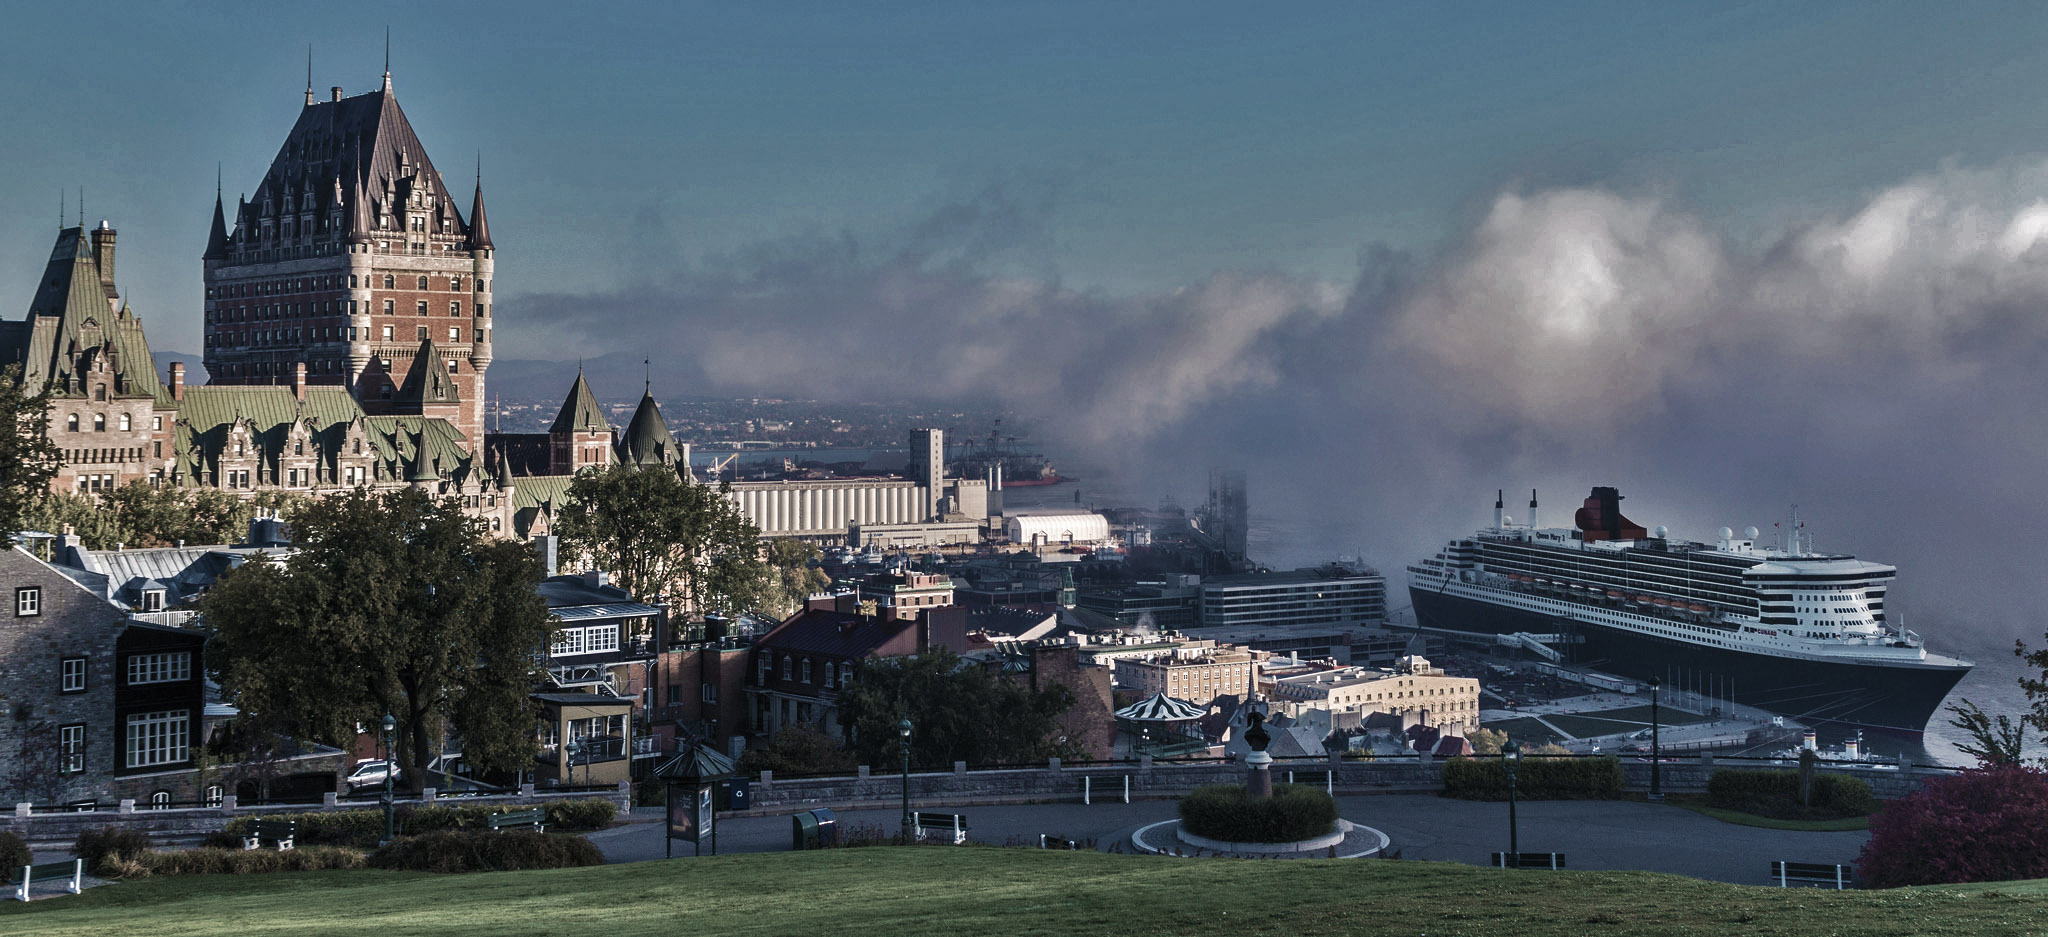
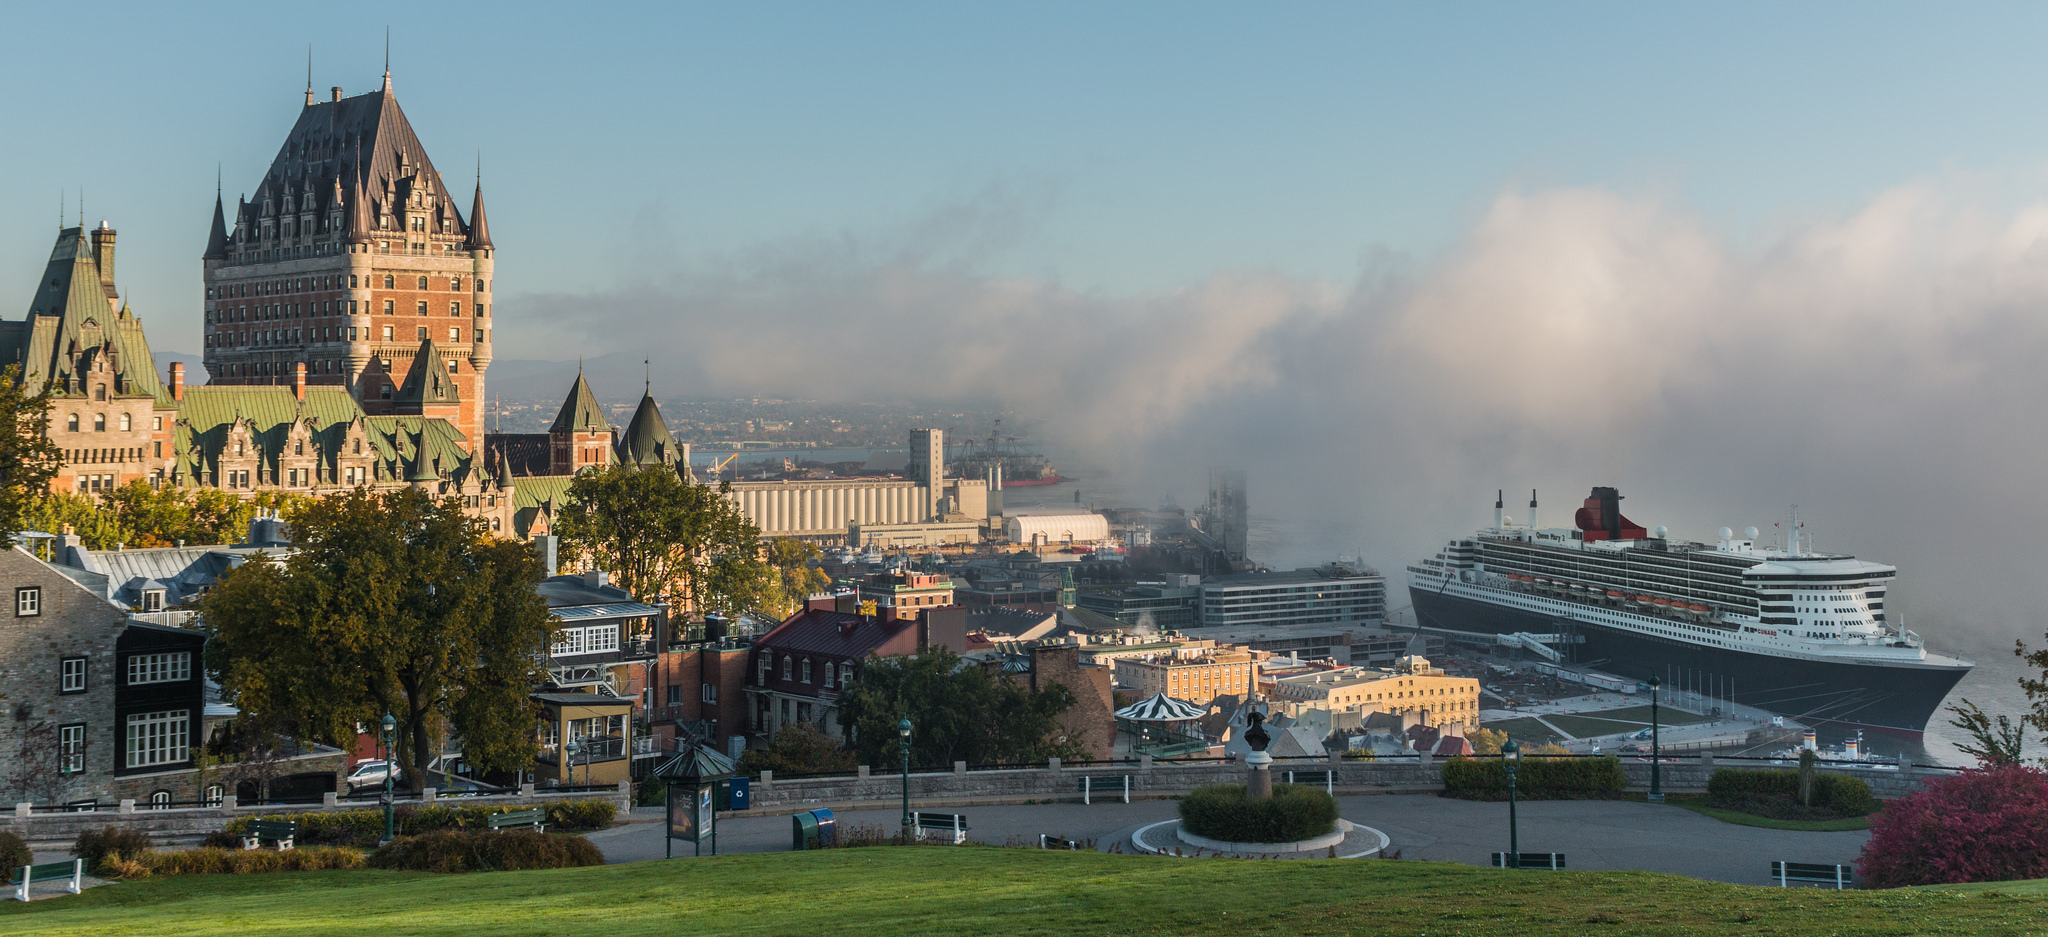
Header image credits

diff --git a/css/style.css b/css/style.css
@@ -38,7 +38,7 @@ a {
 
 body > header {
   padding: 1em 1.5em 1.8em;
-  background: linear-gradient(transparent, rgba(0, 0, 0, 0.2)), url("../images/header2.jpg") top/cover #4d91b3;
+  background: linear-gradient(transparent, rgba(0, 0, 0, 0.2)), url("../images/header.jpg") top/cover #4d91b3;
   color: white;
   text-align: center;
   font-size: 120%;
@@ -116,6 +116,9 @@ body > footer {
   padding: 1em;
   background: #c9dee8;
   font-weight: bold; }
+  body > footer small {
+    display: block;
+    color: rgba(0, 0, 0, 0.5); }
   @media (min-width: 500px) {
     body > footer {
       display: -ms-flexbox;
@@ -124,7 +127,7 @@ body > footer {
       justify-content: center;
       -ms-flex-align: center;
       align-items: center; }
-      body > footer > p {
+      body > footer > :first-child {
         width: 46rem;
         max-width: calc(100vw - 18em); } }
   @media (min-width: 1300px) {

diff --git a/css/style.scss b/css/style.scss
@@ -47,7 +47,7 @@ a {
 body > header {
 	padding: 1em 1.5em 1.8em;
 	background: linear-gradient(transparent, rgba(0,0,0,.2)),
-	            url("../images/header2.jpg") top / cover $secondary-color;
+	            url("../images/header.jpg") top / cover $secondary-color;
 	color: white;
 	text-align: center;
 	font-size: 120%;
@@ -155,12 +155,17 @@ body > footer {
 	background: change-color($secondary-color, $lightness: 85%);
 	font-weight: bold;
 
+	small {
+		display: block;
+		color: rgba(0,0,0,.5);
+	}
+
 	@media (min-width: 500px) {
 		display: flex;
 		justify-content: center;
 		align-items: center;
 
-		& > p {
+		& > :first-child {
 			width: 46rem;
 			max-width: calc(100vw - 18em);
 		}

diff --git a/index.html b/index.html
@@ -297,7 +297,10 @@
 </main>
 
 <footer>
-	<p>&copy; ACM SIGCHI 2017</p>
+	<div>
+		&copy; <a href="http://www.sigchi.org">ACM SIGCHI</a> 2017
+		<small>Header photo credits: <a href="https://www.flickr.com/photos/junksnowgirl/30161358185/">flickr.com/photos/junksnowgirl/30161358185</a></small>
+	</div>
 	<div class="social">
 		<a title="Facebook" href="https://www.facebook.com/ACMUIST" target="_blank">
 			f
